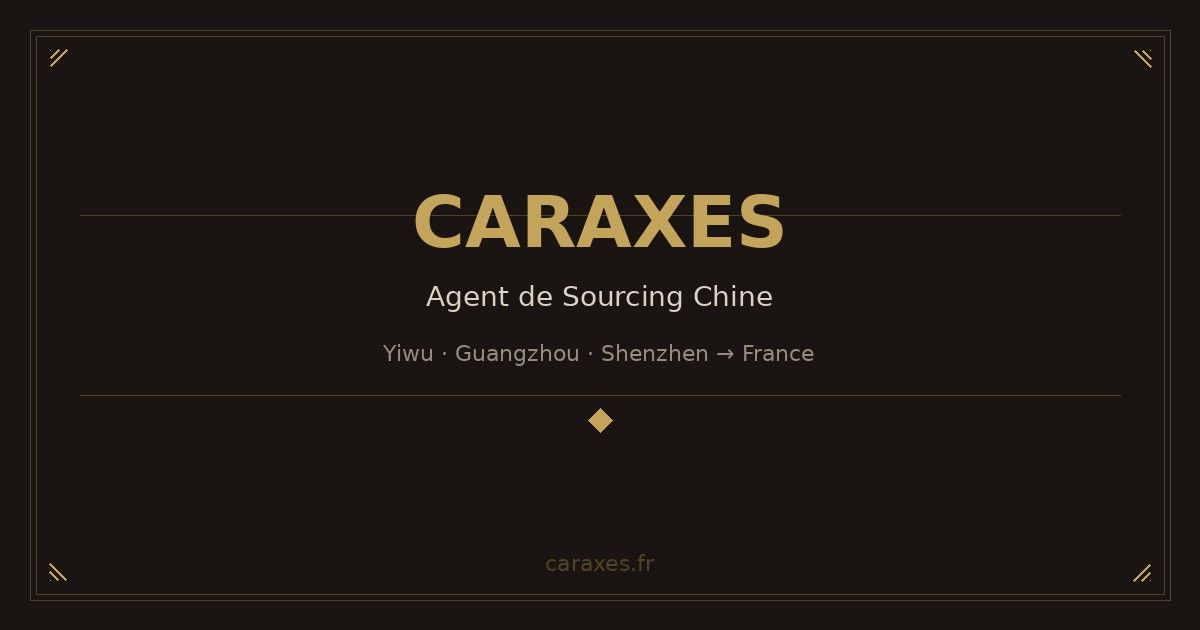
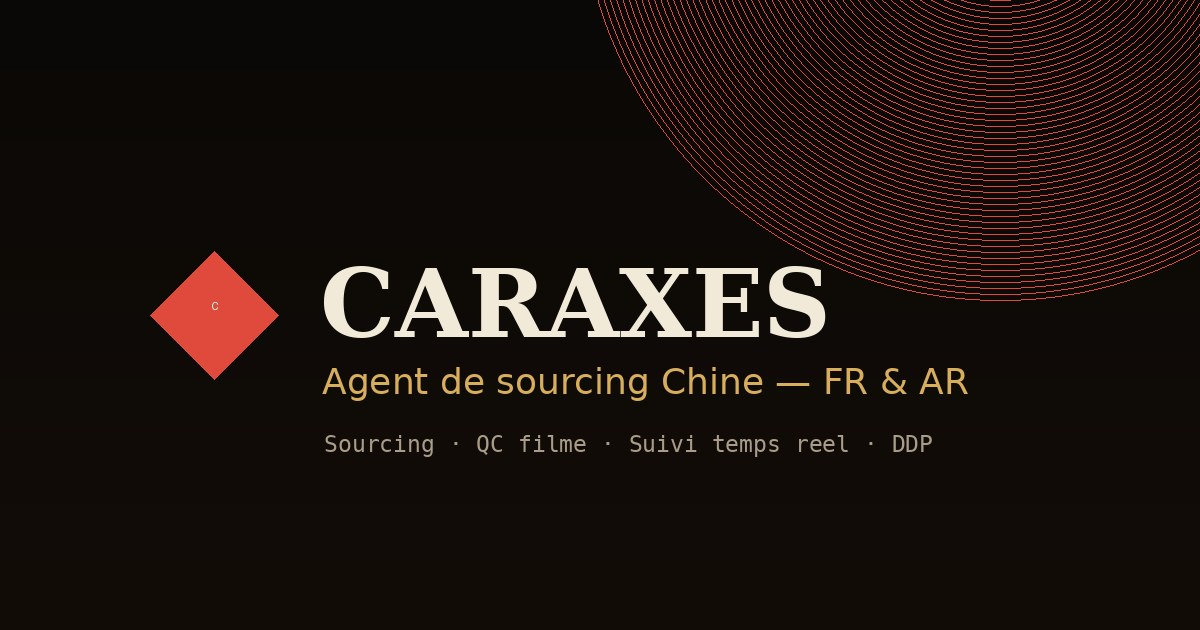
landing: CTA mobile + exit-intent + events GA4 + pause carte hors-ecran + SEO (sitemap/robots/og) + formulations conformes

diff --git a/public/landing.html b/public/landing.html
@@ -1526,6 +1526,11 @@ abbr[title]:hover::after, abbr[title]:focus::after {
 #cx-track .cx-belt{animation:cxbelt 3.4s linear infinite}
 @keyframes cxbelt{from{transform:translateX(0)}to{transform:translateX(150px)}}
 @media(max-width:820px){#cx-track .cx-mapcard{grid-template-columns:1fr}#cx-track .cx-feed{border-left:none;border-top:1px solid var(--border)}}
+
+/* CTA collant mobile + ajustements */
+.cx-sticky{position:fixed;left:0;right:0;bottom:0;z-index:60;display:none;padding:10px 14px;background:rgba(10,8,6,.93);backdrop-filter:blur(10px);border-top:1px solid var(--border)}
+.cx-sticky a{display:block;text-align:center;background:var(--red);color:#fff;font-weight:600;padding:13px;border-radius:10px;font-size:15px;text-decoration:none;font-family:var(--sans)}
+@media(max-width:760px){.cx-sticky{display:block}body{padding-bottom:72px}}
 </style>
 <script type="application/ld+json">
 {
@@ -1728,7 +1733,7 @@ abbr[title]:hover::after, abbr[title]:focus::after {
     <div class="trust-items">
       <div class="trust-item">
         <div class="trust-icon"><svg viewBox="0 0 24 24"><path d="M12 22s8-4 8-10V5l-8-3-8 3v7c0 6 8 10 8 10z"/></svg></div>
-        <div><span class="trust-val">500+</span><span class="trust-label">Fournisseurs audit&eacute;s</span></div>
+        <div><span class="trust-val">500+</span><span class="trust-label">Fournisseurs v&eacute;rifi&eacute;s</span></div>
       </div>
       <div class="trust-item">
         <div class="trust-icon"><svg viewBox="0 0 24 24"><path d="M15 10l-4 4-2-2"/><circle cx="12" cy="12" r="10"/></svg></div>
@@ -1745,7 +1750,7 @@ abbr[title]:hover::after, abbr[title]:focus::after {
     </div>
     <!-- Partner logistics logos -->
     <div style="display:flex;justify-content:center;align-items:center;gap:clamp(1.5rem,4vw,3rem);margin-top:var(--s6);padding-top:var(--s4);border-top:1px solid var(--border-subtle);flex-wrap:wrap;">
-      <span style="font-family:var(--mono);font-size:0.6rem;color:var(--text-dim);letter-spacing:0.12em;text-transform:uppercase;">Partenaires&nbsp;:</span>
+      <span style="font-family:var(--mono);font-size:0.6rem;color:var(--text-dim);letter-spacing:0.12em;text-transform:uppercase;">Transporteurs &amp; contr&ocirc;le&nbsp;:</span>
       <span style="font-family:var(--sans);font-size:var(--text-sm);font-weight:600;color:var(--text-dim);letter-spacing:0.04em;opacity:0.6;">CMA&nbsp;CGM</span>
       <span style="font-family:var(--sans);font-size:var(--text-sm);font-weight:600;color:var(--text-dim);letter-spacing:0.04em;opacity:0.6;">COSCO</span>
       <span style="font-family:var(--sans);font-size:var(--text-sm);font-weight:600;color:var(--text-dim);letter-spacing:0.04em;opacity:0.6;">DHL</span>
@@ -2935,6 +2940,23 @@ window.resetFormAfterSuccess = resetFormAfterSuccess;
   var feed=document.getElementById('cxFeed');if(!feed)return;var k=0;function p(n){return n<10?'0'+n:n}
   function add(){var e=EV[k%EV.length];k++;var d=new Date();var t=p(d.getHours())+':'+p(d.getMinutes())+':'+p(d.getSeconds());var el=document.createElement('div');el.className='cx-fitem';el.innerHTML='<span class="d" style="background:'+e[0]+'"></span><div><div class="x"><span class="r">'+e[1]+'</span> \u00b7 '+e[2]+'</div><div class="t">'+t+'</div></div>';feed.prepend(el);while(feed.children.length>5)feed.removeChild(feed.lastChild);}
   for(var i=0;i<5;i++)add();setInterval(add,2600);
+})();
+</script>
+
+<div class="cx-sticky"><a href="javascript:void(0)" onclick="openForm('formComparatif');if(typeof gtag==='function')gtag('event','cta_click',{location:'sticky_mobile'})">Recevoir mon comparatif gratuit &rarr;</a></div>
+<script>
+(function(){
+  var shown=false;
+  document.addEventListener('mouseout',function(e){if(shown)return;if(!e.relatedTarget&&e.clientY<=0){shown=true;if(typeof openForm==='function'){openForm('formComparatif');if(typeof gtag==='function')gtag('event','exit_intent_open',{});}}});
+  var marks={25:0,50:0,75:0,100:0};
+  window.addEventListener('scroll',function(){var h=document.documentElement;var d=(h.scrollHeight-h.clientHeight);if(d<=0)return;var sc=h.scrollTop/d*100;[25,50,75,100].forEach(function(m){if(sc>=m&&!marks[m]){marks[m]=1;if(typeof gtag==='function')gtag('event','scroll_depth',{percent:m});}});},{passive:true});
+  var st;function simEv(){clearTimeout(st);st=setTimeout(function(){var v=document.getElementById('calc2Vol');var on=document.querySelector('#calc2Chips .calc2-chip.on');if(typeof gtag==='function')gtag('event','simulator_use',{volume:v?+v.value:0,categorie:on?on.getAttribute('data-label'):''});},700);}
+  var sl=document.getElementById('calc2Vol');if(sl)sl.addEventListener('input',simEv);
+  document.querySelectorAll('#calc2Chips .calc2-chip').forEach(function(c){c.addEventListener('click',simEv);});
+  var track=document.getElementById('cx-track');
+  if(track&&'IntersectionObserver'in window){var svg=track.querySelector('.cx-mapbox svg');var seen=false;
+    new IntersectionObserver(function(es){es.forEach(function(en){if(svg){try{en.isIntersecting?svg.unpauseAnimations():svg.pauseAnimations();}catch(_){}}if(en.isIntersecting&&!seen){seen=true;if(typeof gtag==='function')gtag('event','view_tracking_map',{});}});},{threshold:.15}).observe(track);
+  }
 })();
 </script>
 </body>